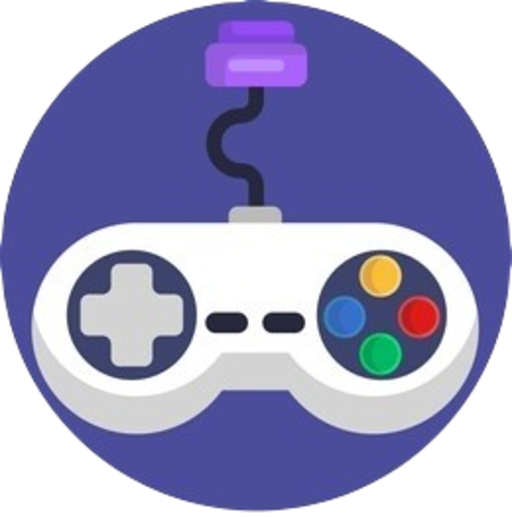
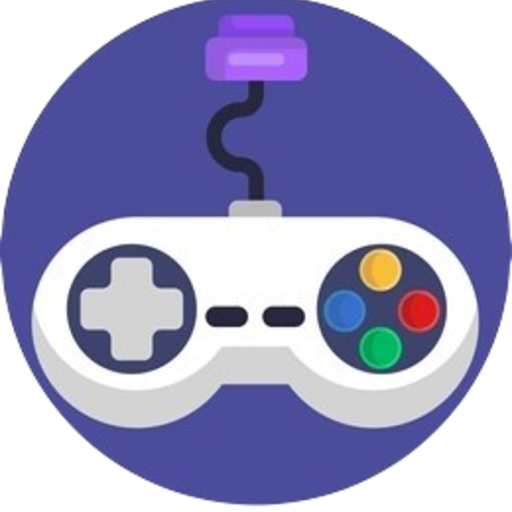
V3.2

diff --git a/app/SWRegistration.tsx b/app/SWRegistration.tsx
@@ -1,0 +1,13 @@
+"use client";
+import { useEffect } from 'react';
+export default function SWRegistration() {
+useEffect(() => {
+if ('serviceWorker' in navigator) {
+navigator.serviceWorker
+.register('/sw.js')
+.then((reg) => console.log('SW registrado!', reg))
+.catch((err) => console.log('Error al registrar SW', err));
+}
+}, []);
+return null; // Este componente no dibuja nada, solo ejecuta código
+}

diff --git a/app/layout.tsx b/app/layout.tsx
@@ -7,6 +7,8 @@ import type {
 Metadata
 } from "next"
 
+import SWRegistration from "./SWRegistration"
+
 export const metadata:Metadata={
 
 title:"Zona XP",
